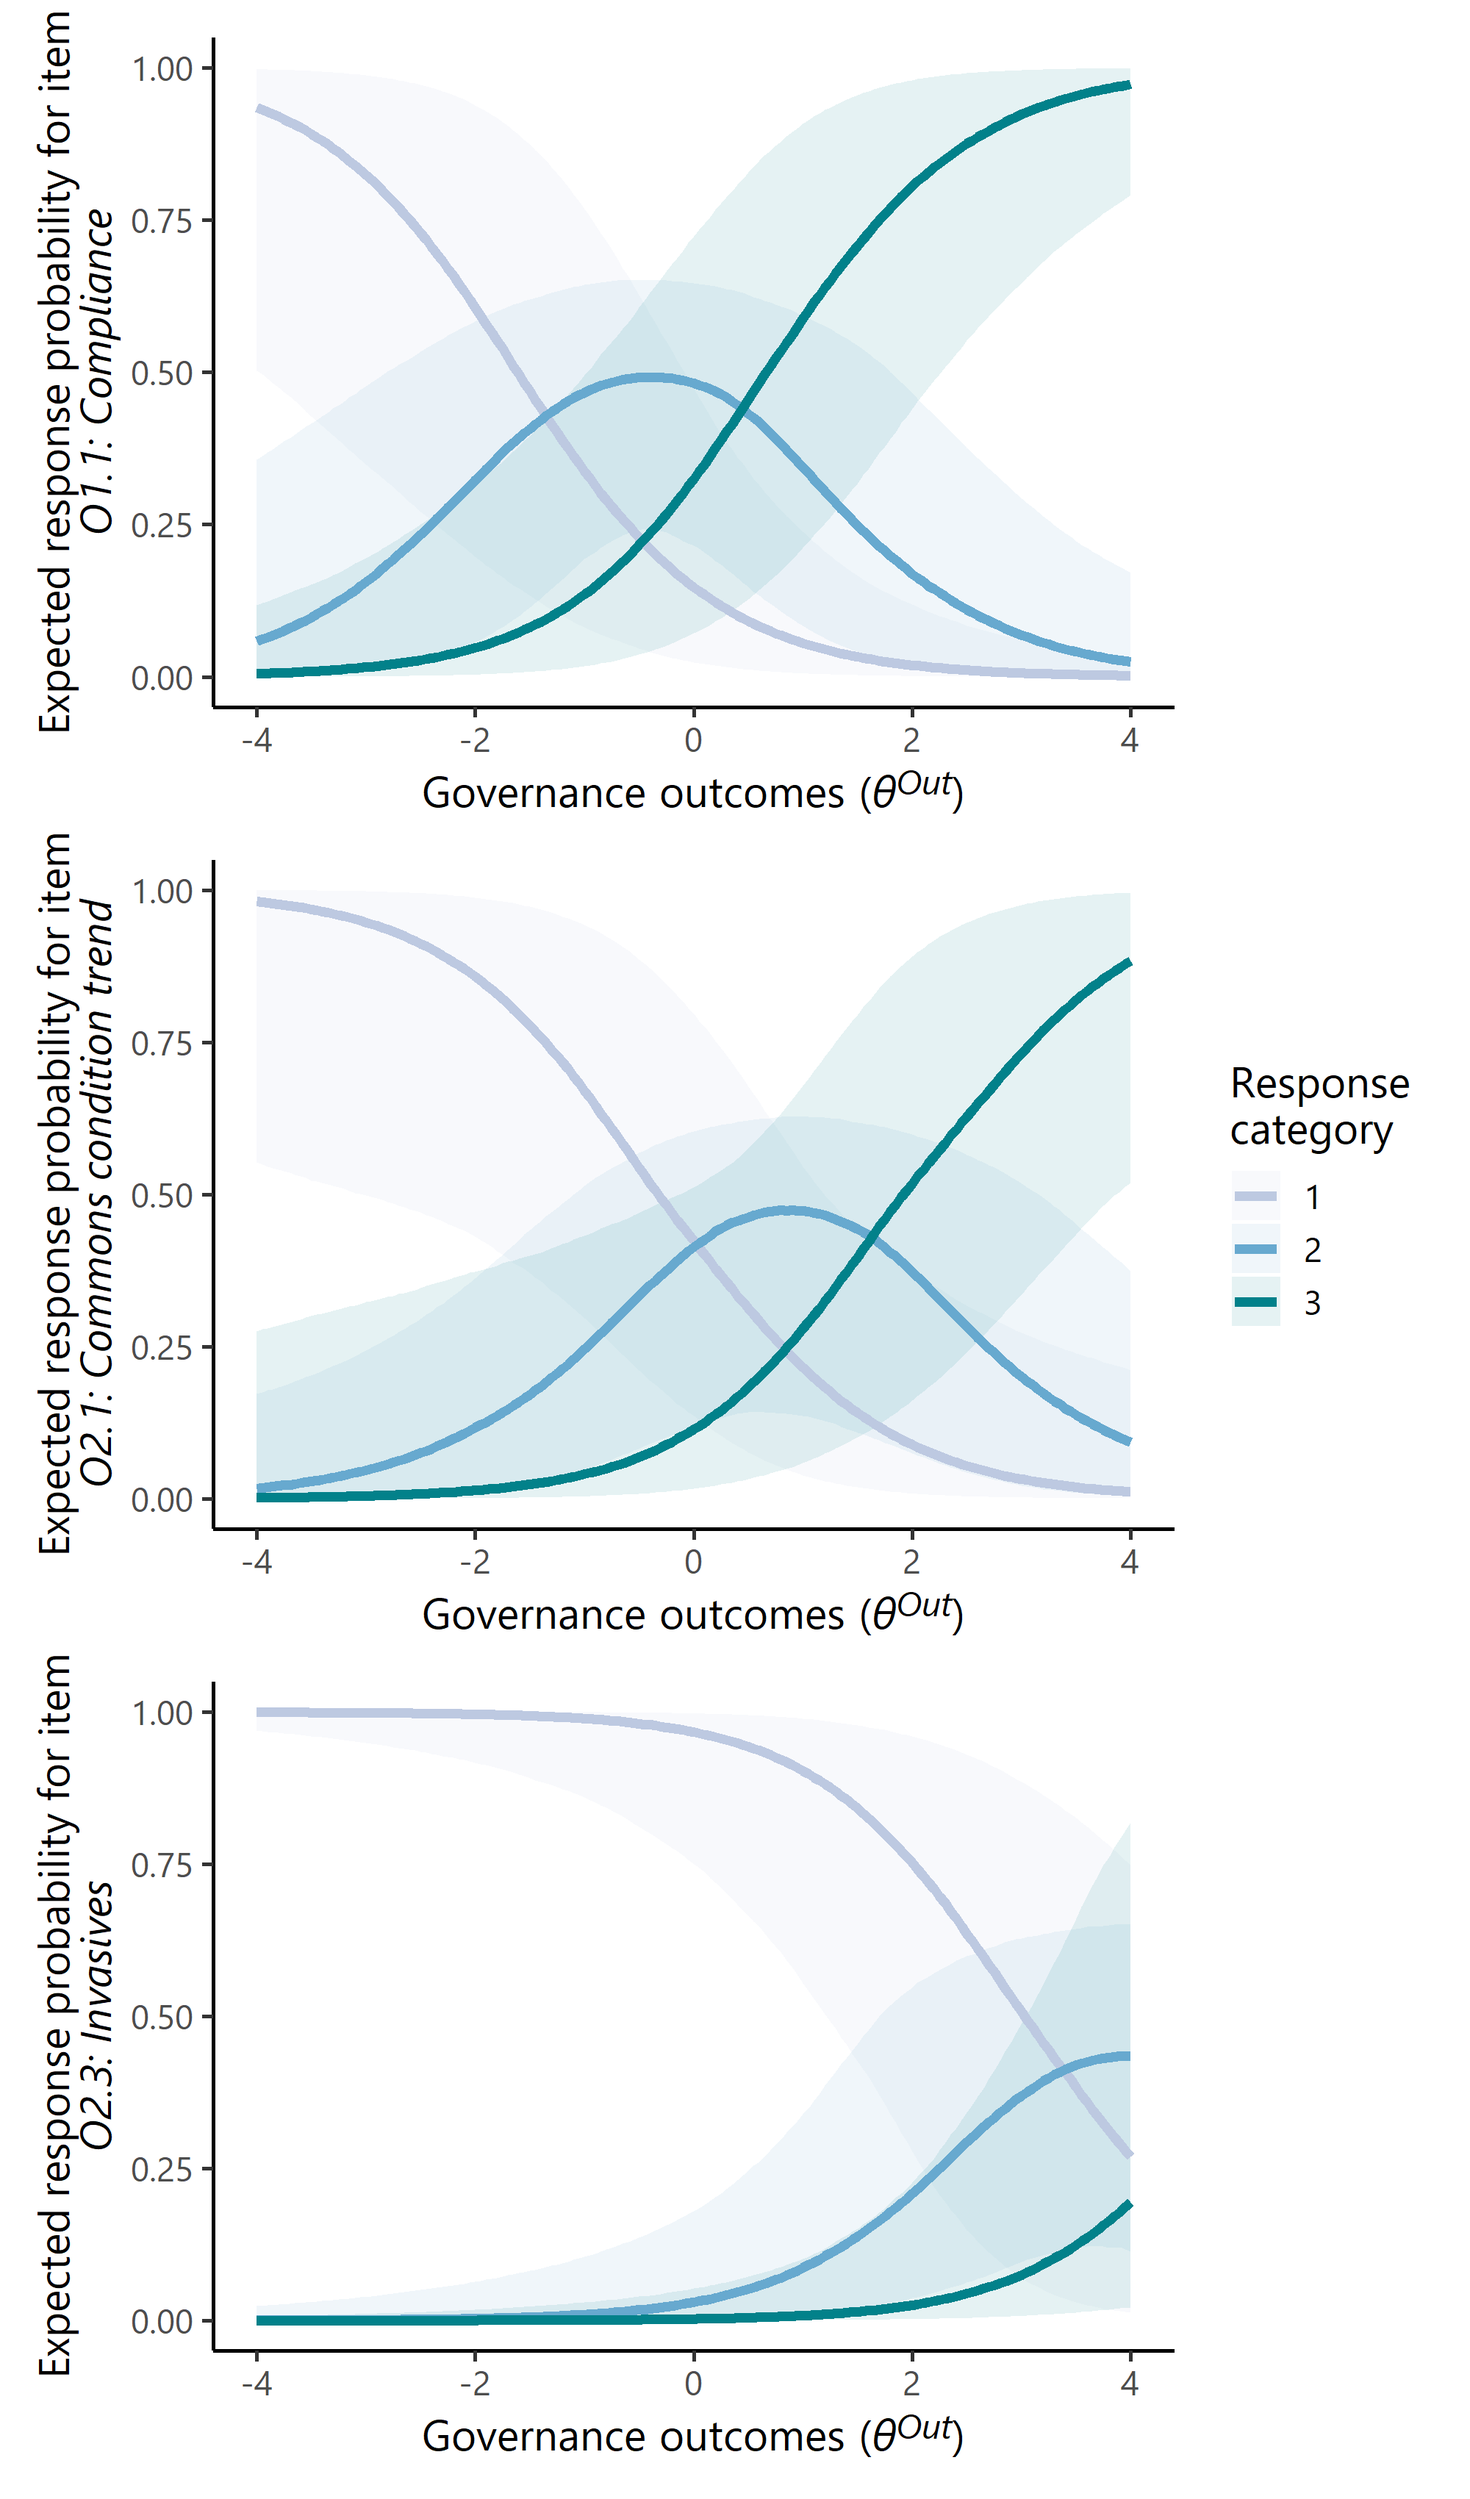
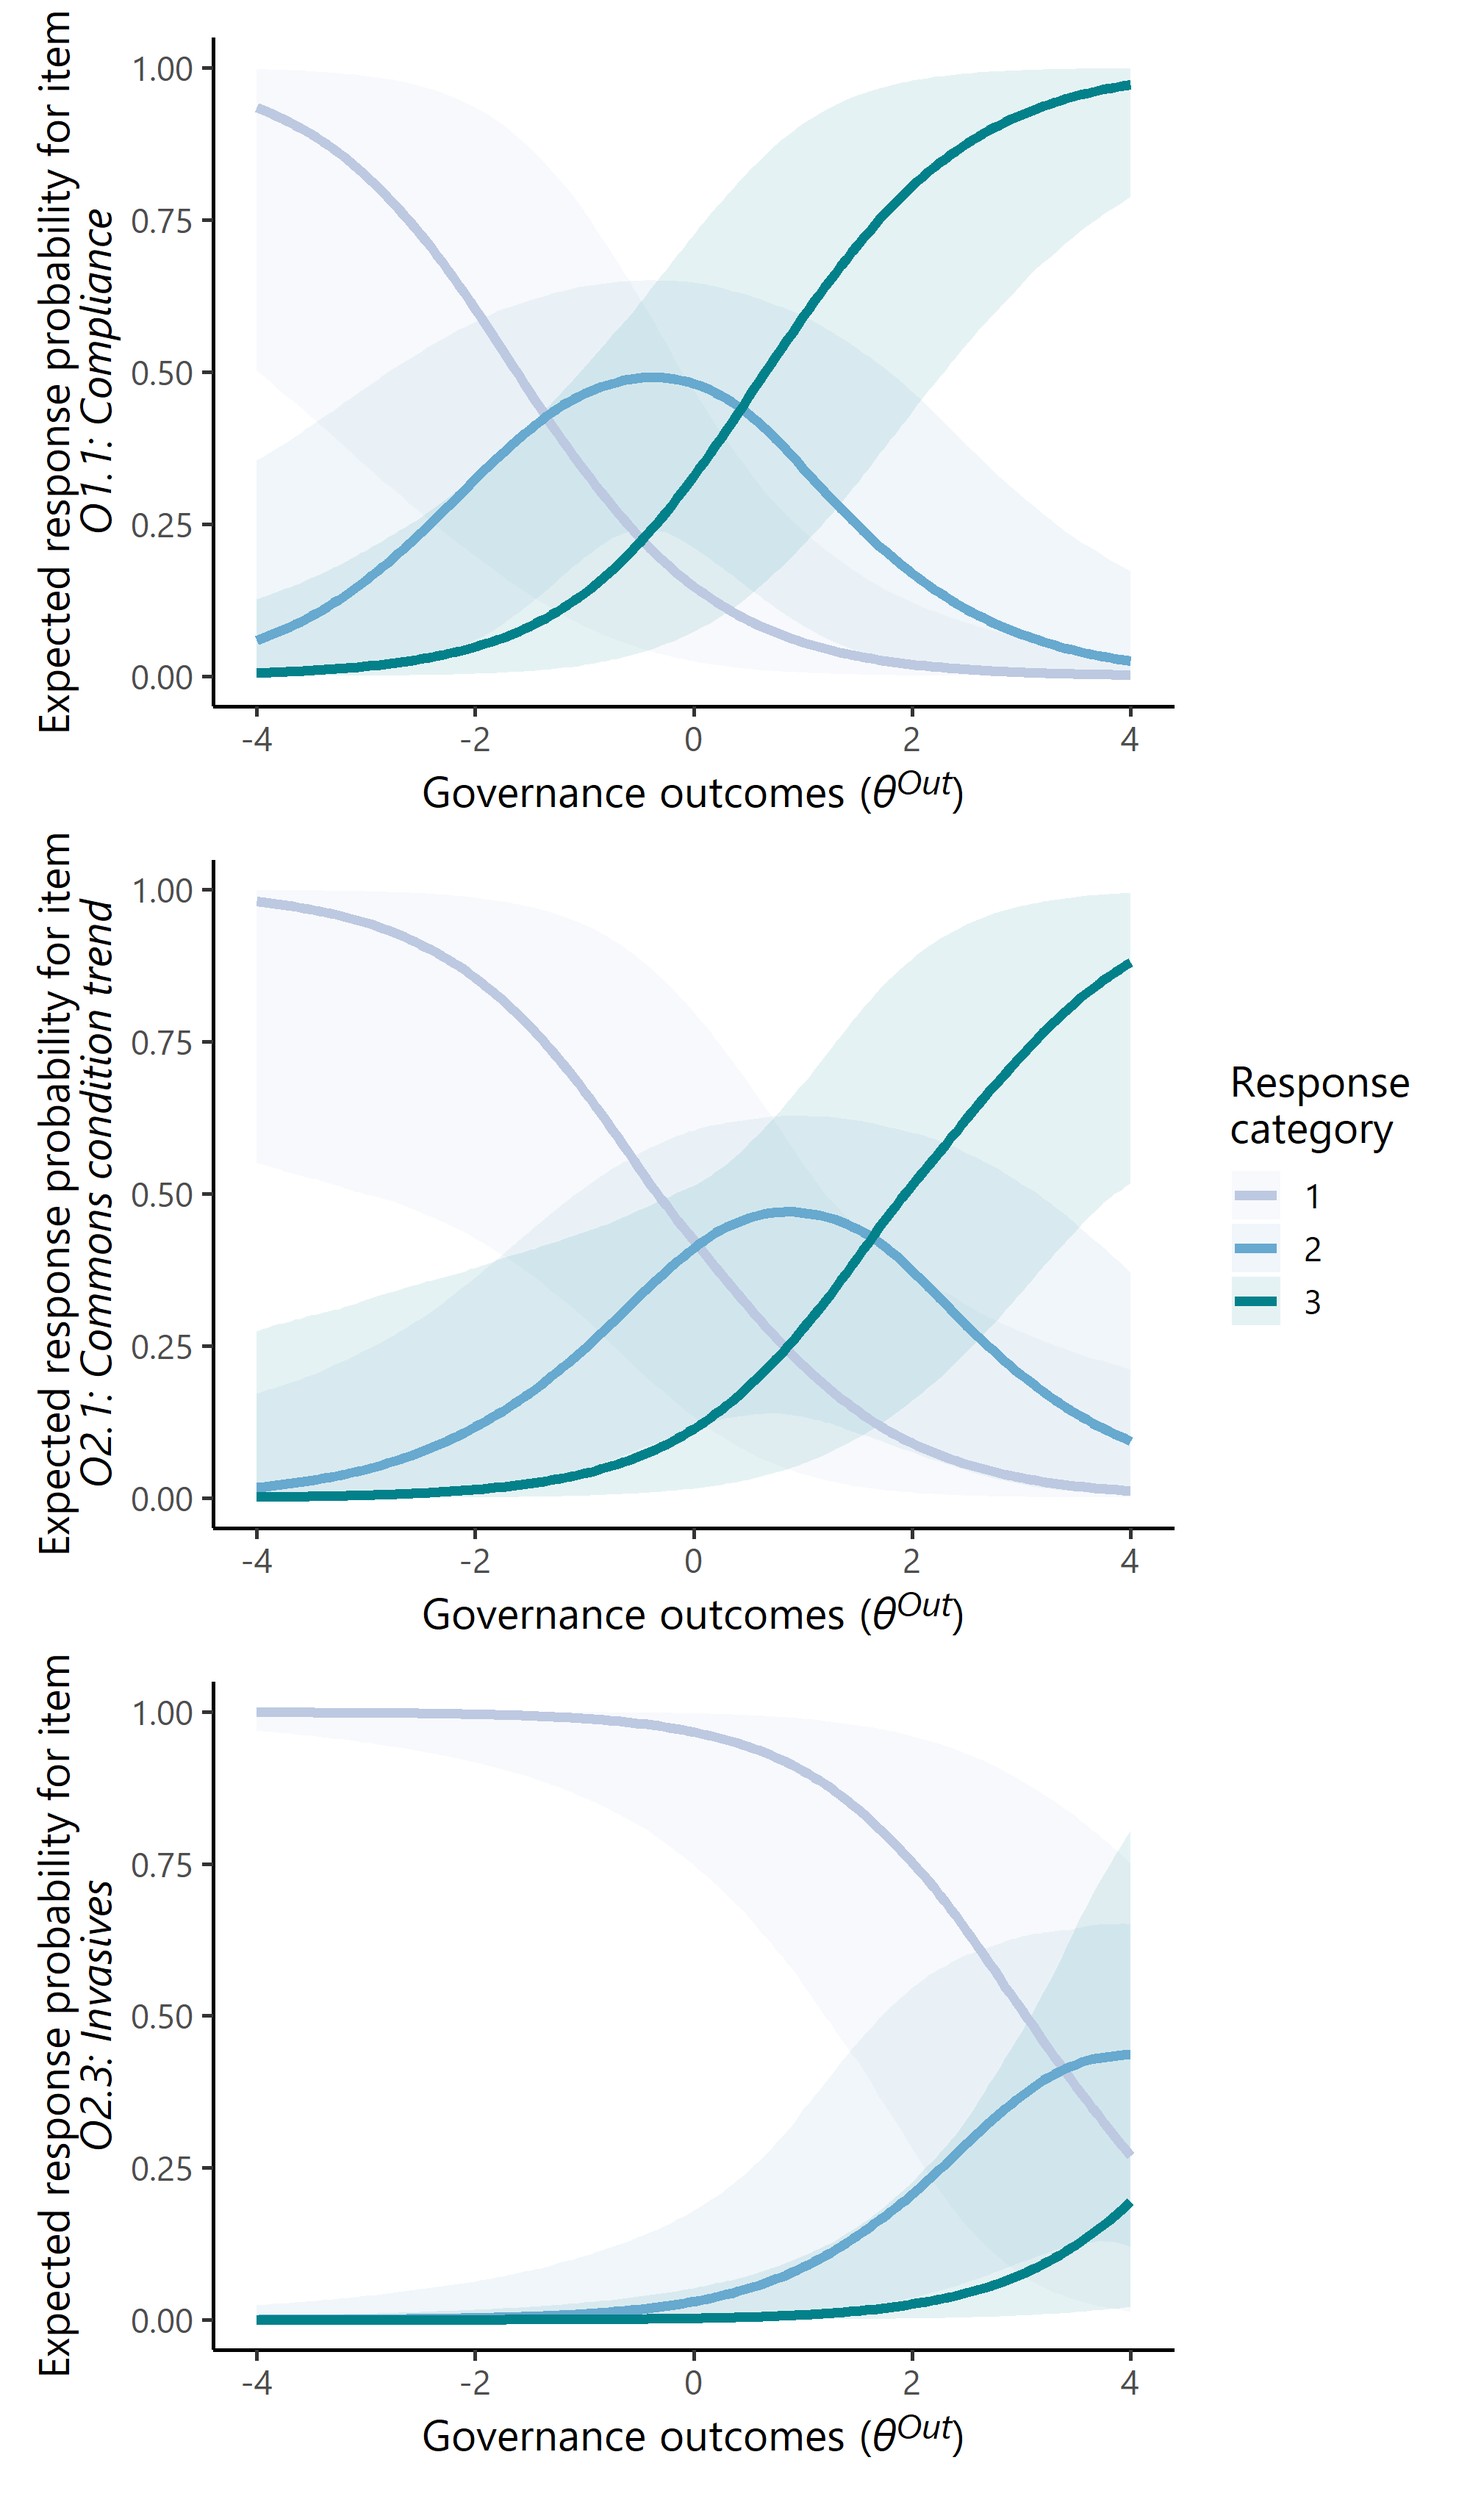
update results and figures for revisions with updated Stan version

diff --git a/README.md b/README.md
@@ -22,4 +22,4 @@ In the folder `/data/satellite_raw`, raw data from remote sensing sources and vi
 
 **Version info:**
 
-R session info (from `R/compute_results.R`) can be accessed <a href="sessionInfo.txt">here</a>. MCMC sampling was conducted via the `cmdstan` backend `v2.34.1`.
+R session info (from `R/compute_results.R`) can be accessed <a href="sessionInfo.txt">here</a>. MCMC sampling was conducted via the `cmdstan` backend `v2.35.0`.
